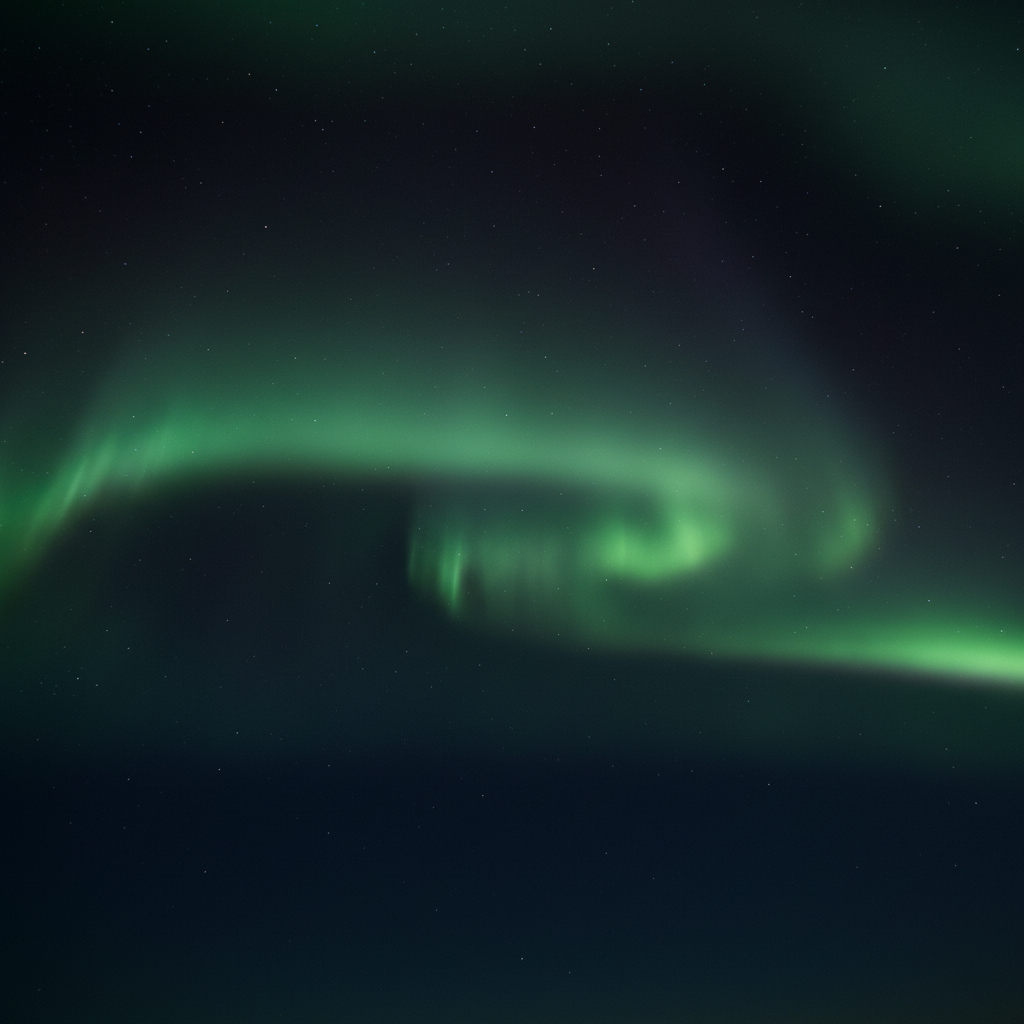
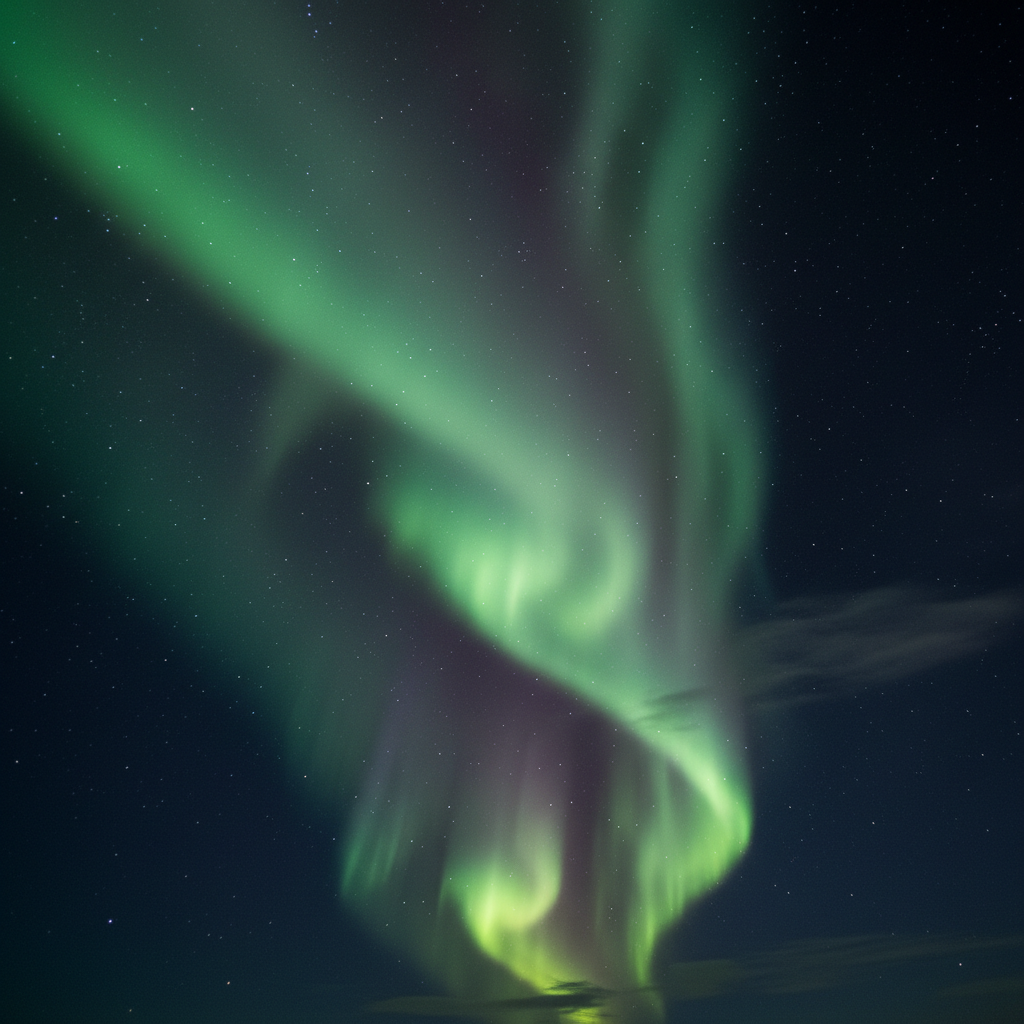
Stronger aurora, card images, Bode Miller mention, topical visuals
- Aurora opacity 25% -> 45% for more visible northern lights
- AI-generated images on each card (wearable, Sardinia, conference)
- Bode Miller/Olympic wearable co-build mention in consultations card
- Circadian waves behind speaker section
- Images fade in on card hover

diff --git a/public/index.html b/public/index.html
@@ -32,7 +32,7 @@
   /* ---- HERO ---- */
   .hero{min-height:100vh;display:flex;align-items:center;position:relative;overflow:hidden}
   .hero-bg{position:absolute;inset:0;z-index:0}
-  .hero-bg img{width:100%;height:100%;object-fit:cover;opacity:0.25;filter:blur(1px)}
+  .hero-bg img{width:100%;height:100%;object-fit:cover;opacity:0.45}
   .hero-bg::after{content:'';position:absolute;inset:0;background:linear-gradient(135deg,rgba(12,17,32,0.85) 0%,rgba(12,17,32,0.6) 50%,rgba(12,17,32,0.9) 100%)}
   .hero-content{position:relative;z-index:1;max-width:1080px;margin:0 auto;padding:100px 32px 60px;display:grid;grid-template-columns:1fr 400px;gap:60px;align-items:center}
   .hero-text .label{font-size:11px;font-weight:700;text-transform:uppercase;letter-spacing:2.5px;color:var(--mint);margin-bottom:14px;display:flex;align-items:center;gap:8px}
@@ -83,6 +83,8 @@
   .card p{font-size:14px;color:var(--muted);line-height:1.65}
   .card-link{display:inline-flex;align-items:center;gap:6px;margin-top:14px;color:var(--mint);font-weight:600;font-size:14px;text-decoration:none;transition:gap .2s}
   .card-link:hover{gap:10px}
+  .card-img{width:100%;height:140px;object-fit:cover;border-radius:10px;margin-bottom:14px;opacity:0.8;transition:opacity .3s}
+  .card:hover .card-img{opacity:1}
 
   /* ---- RESOURCE CARDS ---- */
   .resource-card{background:var(--surface);border:1px solid var(--border);border-radius:14px;padding:32px;display:flex;gap:28px;align-items:flex-start;margin-bottom:16px;transition:border-color .2s}
@@ -227,20 +229,20 @@
     <div class="cards-3">
       <div class="card">
         <div class="card-top" style="background:linear-gradient(90deg,var(--cardinal),var(--cardinal-l))"></div>
-        <div class="icon">&#x1F9EC;</div>
+        <img src="wearable.png" alt="Wearable sleep tracking" class="card-img">
         <h3>Sleep Consultations</h3>
-        <p>Comprehensive assessment: chronotype profiling, wearable data analysis, and a personalized protocol covering light timing, supplements, temperature, and behavioral interventions.</p>
+        <p>Comprehensive assessment: chronotype profiling, wearable data analysis, and a personalized protocol. I've also co-built wearable hardware with Bode Miller, US Olympic alpine skiing champion, for sports safety and performance.</p>
         <a href="#contact" class="card-link">Book now <span>&rarr;</span></a>
       </div>
       <div class="card">
         <div class="card-top" style="background:linear-gradient(90deg,var(--gold),#E8A820)"></div>
-        <div class="icon">&#x1F52C;</div>
+        <img src="sardinia.png" alt="Sardinia Blue Zone research" class="card-img">
         <h3>Longevity Research</h3>
-        <p>Stanford IRB-approved research studying sleep and circadian rhythms in centenarians across Blue Zones - Sardinia and Okinawa. The link between sleep regularity and extreme longevity.</p>
+        <p>Stanford IRB-approved research studying sleep and circadian rhythms in centenarians across Blue Zones - Sardinia and Okinawa. Understanding why the world's longest-lived people sleep differently.</p>
       </div>
       <div class="card">
         <div class="card-top" style="background:linear-gradient(90deg,var(--lavender),var(--blue))"></div>
-        <div class="icon">&#x1F3A4;</div>
+        <img src="conference.png" alt="Conference speaking" class="card-img">
         <h3>Speaking & Workshops</h3>
         <p>Keynotes on sleep science for conferences, founder retreats, and corporate wellness. Evidence-based, engaging, and designed to change behavior - not just inform.</p>
         <a href="#speaker" class="card-link">Book as speaker <span>&rarr;</span></a>

diff --git a/public/CLAUDE.md b/public/CLAUDE.md
@@ -21,4 +21,10 @@
 | #4701 | 1:51 PM | 🔄 | Redesigned website with larger photo, real tool links, white PDF background, and subtle Stanford branding | ~592 |
 | #4694 | 1:44 PM | ✅ | Contact form endpoint updated to new Formspree form ID | ~348 |
 | #4690 | 1:32 PM | 🔄 | Complete website redesign with Stanford branding and contact form integration | ~650 |
+
+### Mar 18, 2026
+
+| ID | Time | T | Title | Read |
+|----|------|---|-------|------|
+| #4761 | 11:11 AM | 🟣 | Downloaded four AI-generated images for website visual enhancements | ~464 |
 </claude-mem-context>